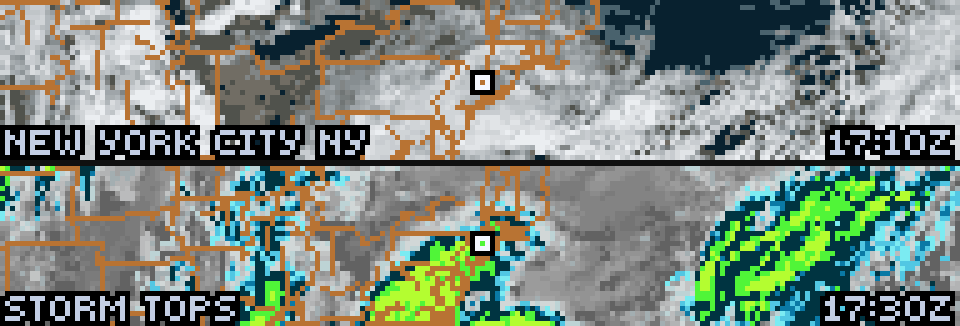
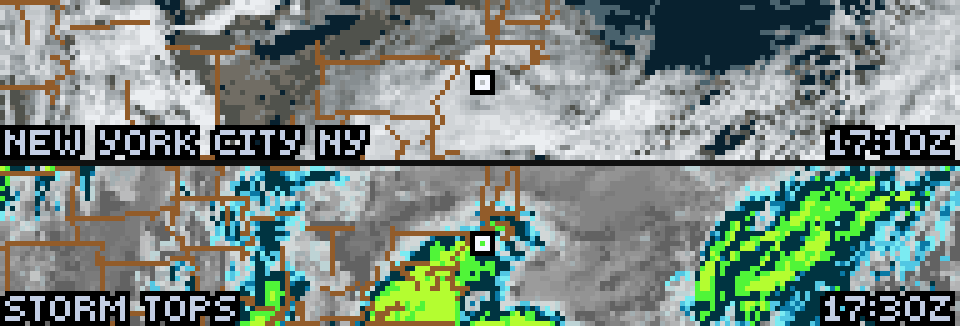
Draw only the borders a photograph cannot show
The panel still looked like a thicket, and the reason was not the geometry
-- that had been checked against the Census source and matched. It was what
was being drawn. Most of the line work was coastline: Long Island, Cape
Cod, the Chesapeake, the Great Lakes shore. A satellite image already draws
the coast, in the only way that matters, by the water being darker than the
land. Tracing it again in orange adds nothing and is the wiggliest, most
expensive part of the table.

So only the lines that are invisible from orbit are kept, and they can be
identified exactly rather than guessed: a segment belonging to two states
is the border between them; a segment belonging to one is an outside edge.
727 of 2,586 segments are borders. The other 1,859 are now dropped.

The table falls from 5.3 KB to 1.9 KB, the close page from 218 line ops to
96, and the app to 0.74 MiB. The colour drops to a darker copper as well,
so the lines sit under the weather rather than on top of it.

diff --git a/apps/cloud-cover/README.md b/apps/cloud-cover/README.md
@@ -127,9 +127,18 @@ anti-aliased hairlines do not survive a downscale to 32 rows. So the
 outlines are carried in the app instead, from the US Census cartographic
 boundary file.
 
-Packing a map into a few thousand points took three goes, and every failure
-looked like a styling problem right up until it was measured against the
-source.
+**Only the borders between states are drawn.** A segment belonging to two
+states is the line between them, and nothing in a photograph from orbit can
+show it. A segment belonging to one state is an outside edge — coast, lake
+shore, national boundary — and the satellite draws every one of those
+already, by the water being darker than the land. Tracing them a second
+time added no information and two thirds of the table, all of it in the
+wiggliest places: Long Island, Cape Cod, the Chesapeake, the Great Lakes.
+That is what made the panel look like a thicket. Dropping them took the
+close page from 218 line ops to 96.
+
+Getting the rest of it right took three goes, and every failure looked like
+a styling problem right up until it was measured against the source.
 
 **Rings are the wrong unit.** The first version simplified each state's
 boundary on its own. Kansas and Nebraska each carry the line between them;
@@ -158,16 +167,16 @@ with the raw Census file pixel-for-pixel 63% of the time at panel
 resolution, and almost all of the rest is a one-pixel grid offset.
 
 An eighth of a degree is about 14 km — under one pixel at the close zoom,
-where one pixel is 0.2°. The table packs into a 5.3 KB string.
+where one pixel is 0.2°. The table packs into a 1.9 KB string.
 
 Drawing is one pass: decode, project, skip any segment whose ends land on
-the same pixel or that falls entirely off one edge. That leaves 218 line
-ops on the close page, against a 4096 limit, and lights about 8% of the
-panel.
+the same pixel or that falls entirely off one edge. That leaves 96 line ops
+on the close page, against a 4096 limit.
 
 The lines were dotted for a while, which was treating the symptom. With the
-geometry right, a solid line is both quieter and clearer. Copper, because
-amber read like a road atlas.
+geometry right, a solid line is both quieter and clearer. Dark copper, so
+it sits under the weather rather than on top of it — amber read like a road
+atlas, and brighter copper still won the frame.
 
 **If you build something like this: render your table against the source
 data at six times panel resolution before trusting it.** Every one of these
